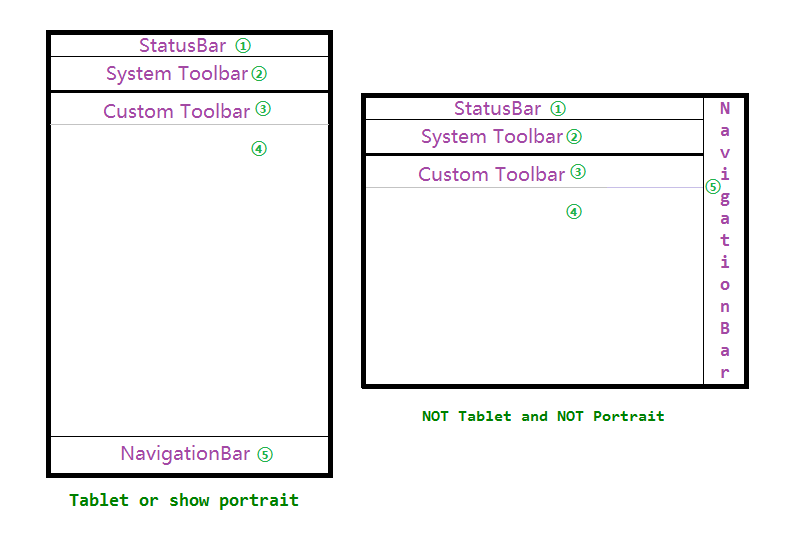
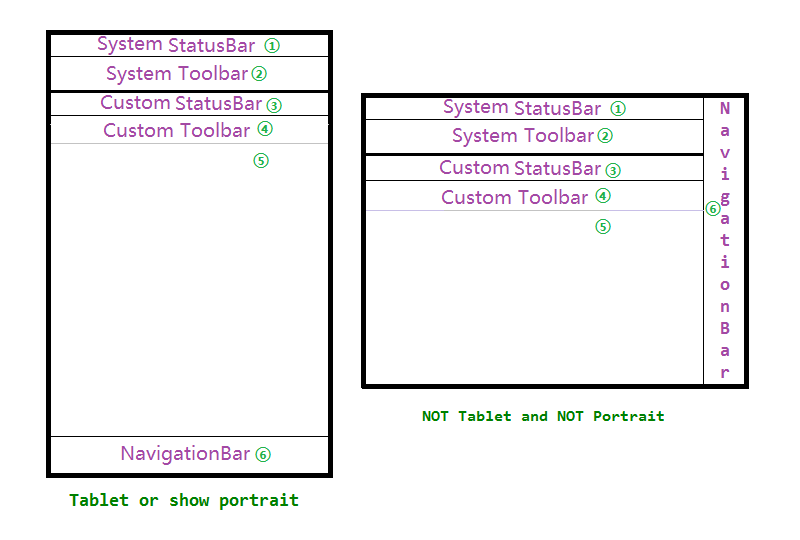
update p1

diff --git a/system-ui-region-size/system-ui-region-size.md b/system-ui-region-size/system-ui-region-size.md
@@ -1,5 +1,34 @@
 # 安卓界面装饰物的大小计算
 
-## 部件明细
+## 结构图
 
 ![system-ui](image/system-ui.png)
+
+### 部件说明
+
+① System StatusBar 系统默认的状态栏
+
+② System Toolbar 主题携带的标题栏
+
+③ Custom StatusBar 使用 CoordinatorLayout 携带的状态栏，一般和 ④ 一块使用。
+
+④ Custom Toolbar 当我们不想使用系统的 toolbar 或者需要实现某些效果时，会使用 `Theme.AppCompat.Light.NoActionBar` 之类的主题，并通过 `setSupportActionBar(toolbar)` 添加自定义的 toolbar，为了描述方便，暂且称之为 Custom Toolbar（如果使用系统自动生成的版本，记得将 Toolbar 的 `android:background="?attr/colorPrimary"` 去掉，否则会加剧重绘现象）。
+
+③、④ 和 ⑤ 三部分合起来对应 id 为 `Window.ID_ANDROID_CONTENT` 的 `FrameLayout`。
+
+![system-toolbar-contentview](image/system-toolbar-contentview.png)
+
+图 1 使用系统的 ToolBar
+
+
+
+![system-toolbar-contentview](image/custom-toolbar-contentview.png)
+
+图 2 使用自定义的 Toolbar
+
+
+
+⑥ NavigationBar 导航栏
+
+指的是虚拟按键，不是实体按键。
+
